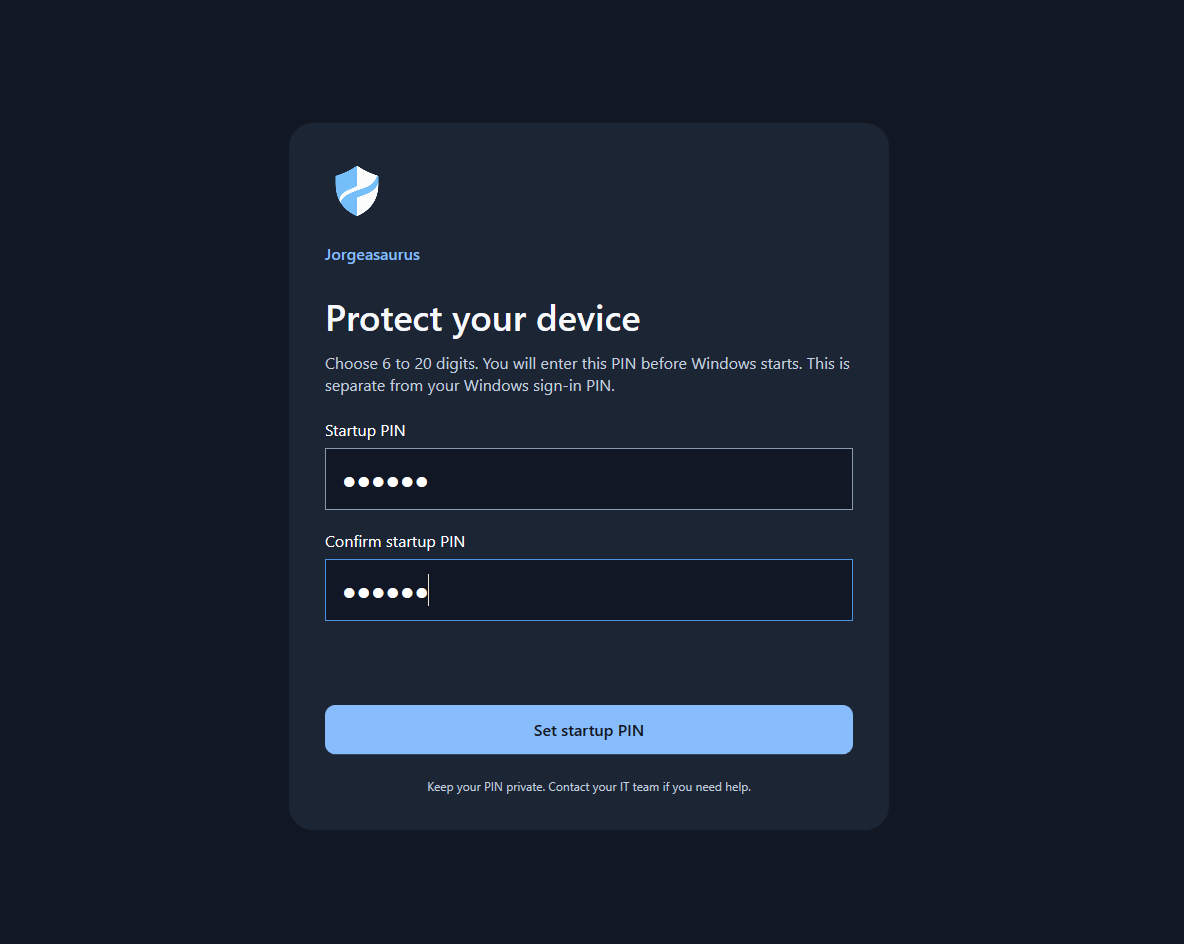
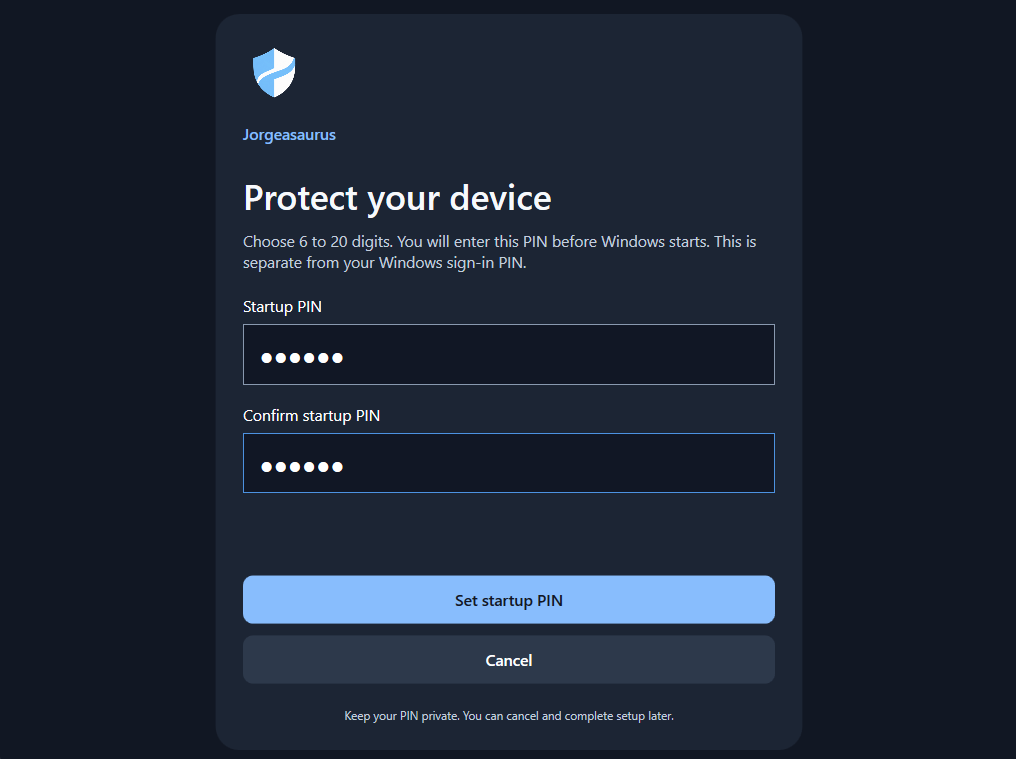
Update enrollment screenshot to current Cancel UI

diff --git a/src/content/imageMetadata.ts b/src/content/imageMetadata.ts
@@ -29,7 +29,7 @@ const imageMetadata: Record<string, { width: number; height: number; loading?: '
   '/images/posts/bitlocker-startup-pin-after-autopilot/policy-settings-single.png': { width: 1536, height: 1024 },
   '/images/posts/bitlocker-startup-pin-after-autopilot/requirement-settings.png': { width: 1536, height: 1024 },
   '/images/posts/bitlocker-startup-pin-after-autopilot/company-portal-installed.png': { width: 796, height: 536 },
-  '/images/posts/bitlocker-startup-pin-after-autopilot/enrollment.png': { width: 1184, height: 944 },
+  '/images/posts/bitlocker-startup-pin-after-autopilot/enrollment.png': { width: 1016, height: 759 },
   '/images/posts/bitlocker-startup-pin-after-autopilot/preboot-pin.png': { width: 1012, height: 756 },
   '/images/posts/bitlocker-startup-pin-after-autopilot/bitlocker-control-panel.png': { width: 777, height: 587 },
 }
